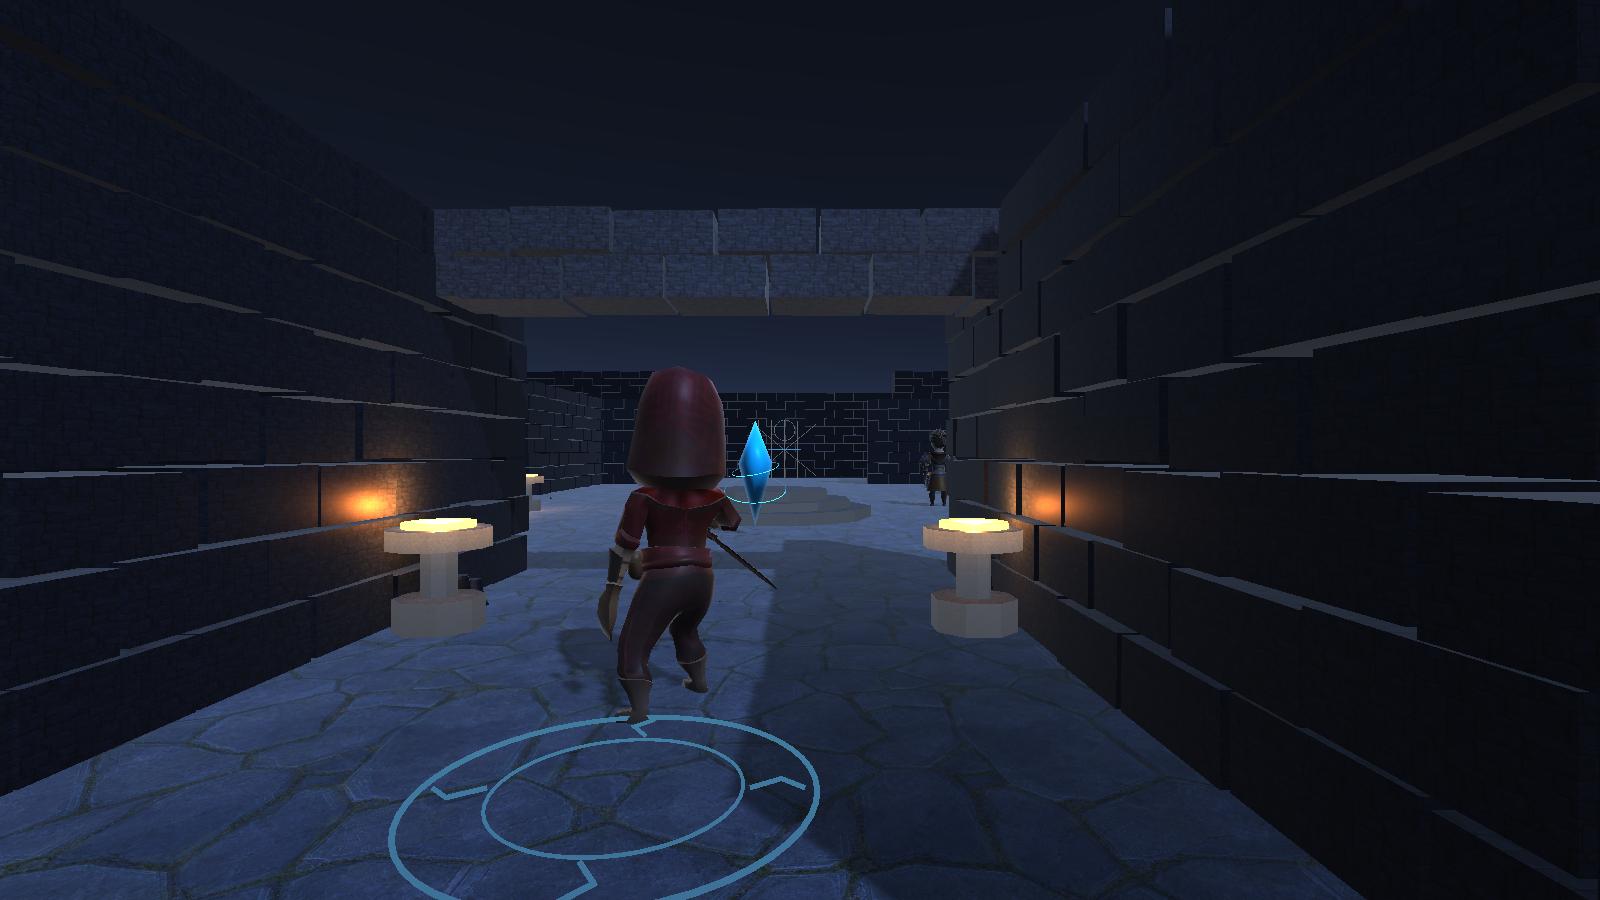
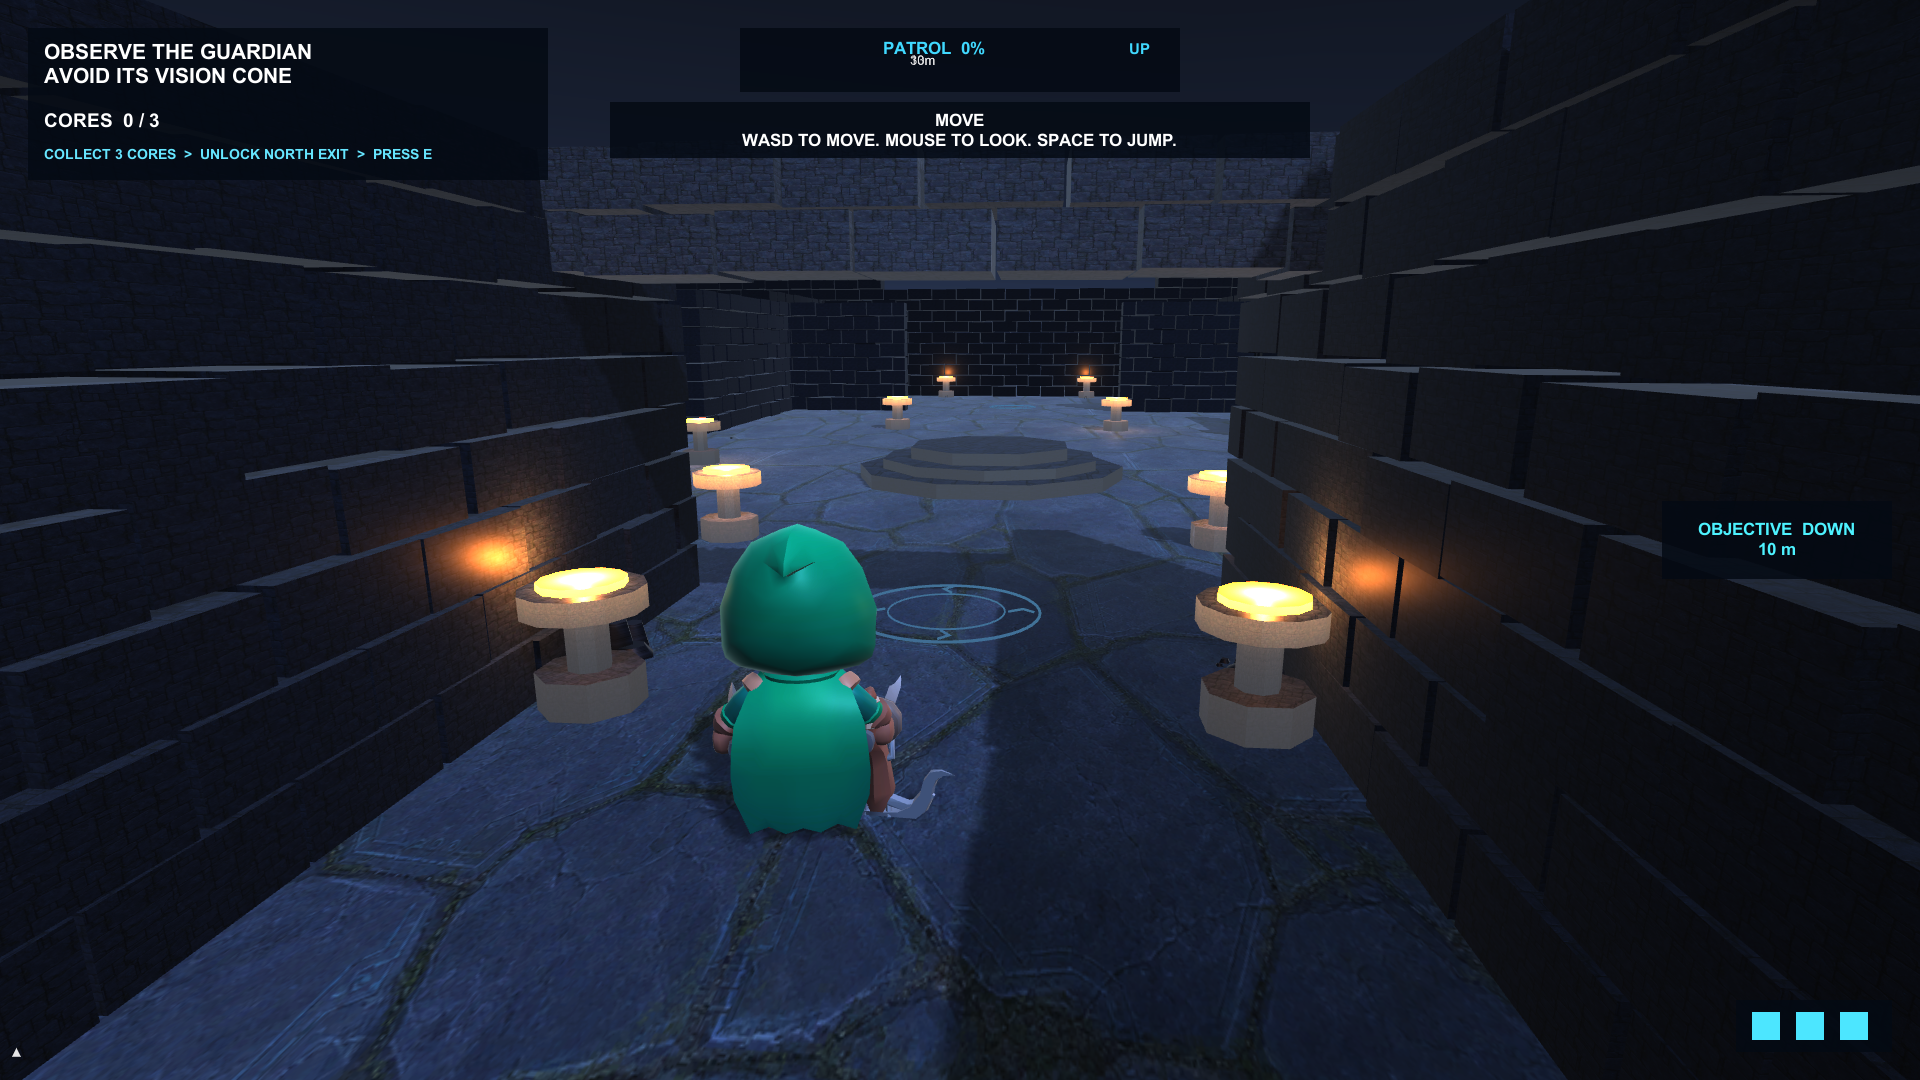
docs: replace preview with current explorer gameplay

diff --git a/README.md b/README.md
@@ -2,7 +2,7 @@
 
 *Echoes of the Ruins* is a third-person, single-player stealth-exploration vertical slice built with Unity 6.3 LTS and URP. The player enters a moonlit citadel, uses shadow and limited echo stones to outsmart three stone guardians, restores three energy cores, and escapes through the rune-sealed north gate.
 
-![Production entrance preview](Evidence/production-preview.png)
+![Current production gameplay screenshot: Explorer approaching the altar route](Evidence/production-preview.png)
 
 ## Playable coursework build
 
@@ -26,8 +26,8 @@ Controls: `WASD` move, mouse look, `Space` jump, `Shift` sprint, `C` crouch, `Q`
 
 ## Verification
 
-- EditMode: **156 passed, 0 failed**.
-- PlayMode: **14 passed, 0 failed**, including menu input, production-scene loading, guardian attacks and the three-core/exit completion flow.
+- EditMode: **162 passed, 0 failed**.
+- PlayMode: **15 passed, 0 failed**, including menu input, production-scene loading, guardian attacks and the three-core/exit completion flow.
 - XML results are stored in `Evidence/TestResults-EditMode.xml` and `Evidence/TestResults-PlayMode.xml`.
 - The three final Windows playthroughs are tracked in [PLAYTEST.md](PLAYTEST.md) and must be signed off before submission.
 
